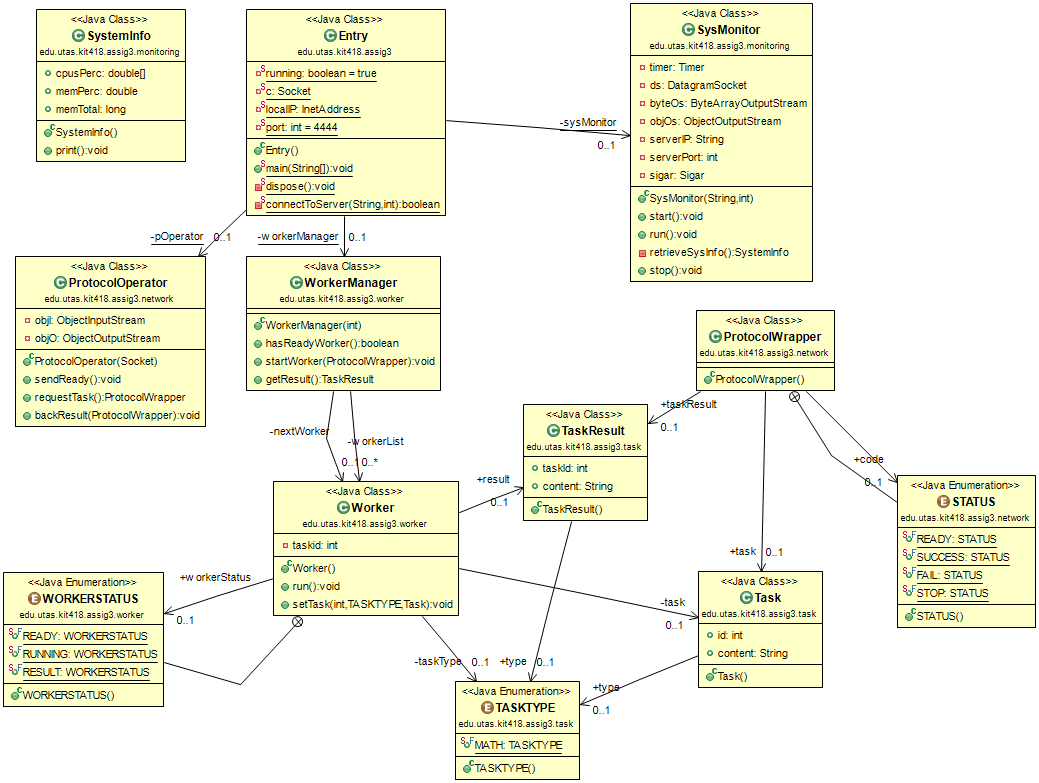
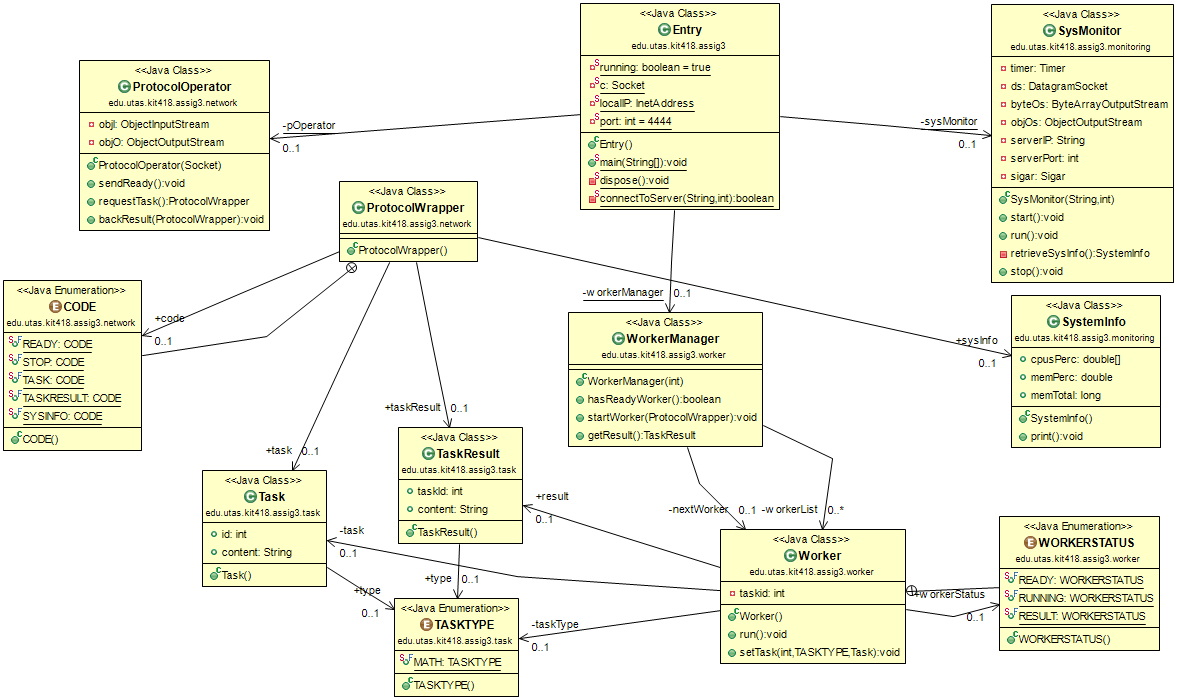
involved SysemInfo into ProtocolWrapper

diff --git a/src/edu/utas/kit418/assig3/Entry.java b/src/edu/utas/kit418/assig3/Entry.java
@@ -8,6 +8,7 @@ import java.net.UnknownHostException;
 import edu.utas.kit418.assig3.monitoring.SysMonitor;
 import edu.utas.kit418.assig3.network.ProtocolOperator;
 import edu.utas.kit418.assig3.network.ProtocolWrapper;
+import edu.utas.kit418.assig3.network.ProtocolWrapper.CODE;
 import edu.utas.kit418.assig3.task.TaskResult;
 import edu.utas.kit418.assig3.worker.WorkerManager;
 
@@ -37,7 +38,7 @@ public class Entry {
 		sysMonitor = new SysMonitor(serverIP, serverPort);
 		sysMonitor.start();
 
-		Thread.sleep(100000);
+//		Thread.sleep(100000);
 
 		boolean ok = connectToServer(serverIP, serverPort);
 		if (!ok) {
@@ -56,6 +57,7 @@ public class Entry {
 			if (result != null) {
 				ProtocolWrapper pe = new ProtocolWrapper();
 				pe.taskResult = result;
+				pe.code = CODE.TASKRESULT;
 				pOperator.backResult(pe);
 			}
 		}

diff --git a/src/edu/utas/kit418/assig3/monitoring/SysMonitor.java b/src/edu/utas/kit418/assig3/monitoring/SysMonitor.java
@@ -14,6 +14,9 @@ import org.hyperic.sigar.Mem;
 import org.hyperic.sigar.Sigar;
 import org.hyperic.sigar.SigarException;
 
+import edu.utas.kit418.assig3.network.ProtocolWrapper;
+import edu.utas.kit418.assig3.network.ProtocolWrapper.CODE;
+
 public class SysMonitor extends TimerTask {
 //http://www.coderpanda.com/java-socket-programming-transferring-java-object-through-socket-using-udp/
 	private Timer timer;
@@ -42,6 +45,9 @@ public class SysMonitor extends TimerTask {
 	@Override
 	public void run() {
 		SystemInfo sysInfo = retrieveSysInfo();
+		ProtocolWrapper pw = new ProtocolWrapper();
+		pw.sysInfo = sysInfo;
+		pw.code = CODE.SYSINFO;
 //		sysInfo.print();
 		try {
 			objOs.writeObject(sysInfo);
@@ -73,7 +79,4 @@ public class SysMonitor extends TimerTask {
 	public void stop() {
 		timer.cancel();
 	}
-	
-	
-
 }

diff --git a/src/edu/utas/kit418/assig3/network/ProtocolOperator.java b/src/edu/utas/kit418/assig3/network/ProtocolOperator.java
@@ -5,7 +5,7 @@ import java.io.ObjectInputStream;
 import java.io.ObjectOutputStream;
 import java.net.Socket;
 
-import edu.utas.kit418.assig3.network.ProtocolWrapper.STATUS;
+import edu.utas.kit418.assig3.network.ProtocolWrapper.CODE;
 
 public class ProtocolOperator {
 
@@ -19,7 +19,7 @@ public class ProtocolOperator {
 
 	public void sendReady() throws IOException {
 		ProtocolWrapper pe = new ProtocolWrapper();
-		pe.code = STATUS.READY;
+		pe.code = CODE.READY;
 			objO.writeObject(pe);
 	}
 

diff --git a/src/edu/utas/kit418/assig3/network/ProtocolWrapper.java b/src/edu/utas/kit418/assig3/network/ProtocolWrapper.java
@@ -1,16 +1,18 @@
 package edu.utas.kit418.assig3.network;
 
+import edu.utas.kit418.assig3.monitoring.SystemInfo;
 import edu.utas.kit418.assig3.task.Task;
 import edu.utas.kit418.assig3.task.TaskResult;
 
 public class ProtocolWrapper {
 
-	public enum STATUS{READY, SUCCESS, FAIL, STOP}
-	
-	
-	public STATUS code;
-	
+	public enum CODE {
+		READY, STOP, TASK, TASKRESULT, SYSINFO
+	}
+
+	public CODE code;
+
 	public Task task;
 	public TaskResult taskResult;
-	
+	public SystemInfo sysInfo;
 }
